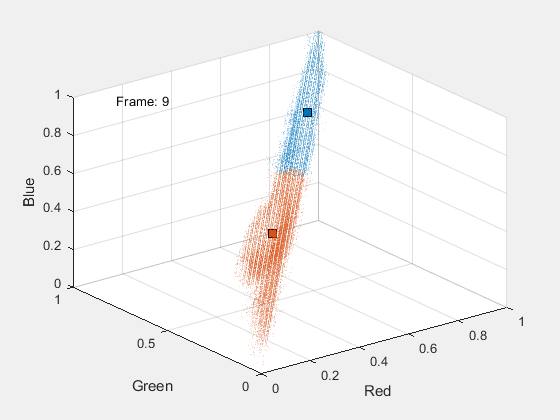
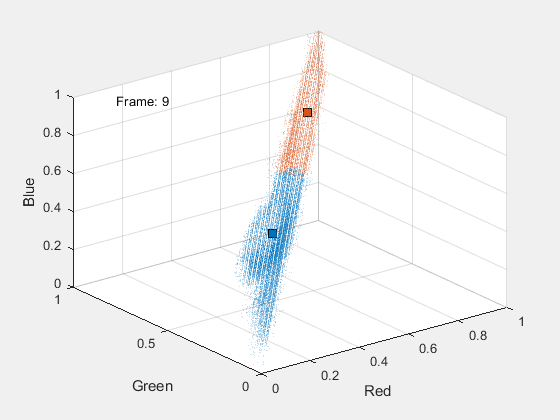
Done with experiment 5.

Changed region(s): [[0.425, 0.0619, 0.5768, 0.8357]]

diff --git a/Document/exp5document.tex b/Document/exp5document.tex
@@ -32,7 +32,7 @@
 \end{cases} \quad i=1,2,\dots,M \]
 识别分类时：将某个待分类模式$\mathbf{X}$分别带入$M$个类的$d(\mathbf{X})$中，若只有$d(\mathbf{X})>0$，其他$d(\mathbf{X})$均$<0$，则判为$\omega_1$类。
 
-对样本进行规范化处理，即$\omega_2$类样本全部诚意$(-1)$，则有
+对样本进行规范化处理，即$\omega_2$类样本全部乘以$(-1)$，则有
 \[ d(\mathbf{X})=\mathbf{W}^\mathsf{T}\mathbf{X}>0 \]
 感知器算法通过对已知类别的训练样本集的学习，寻找一个满足上式的权向量。
 
@@ -40,7 +40,7 @@
 \begin{enumerate}
 	\item 选择$N$个分属于$\omega_1$和$\omega_2$类的模式样本构成训练样本集
 	\[ \left\lbrace \mathbf{X}_1,\mathbf{X}_2,\dots,\mathbf{X}_N \right\rbrace \]
-	构成增广向量形式，并进行行规范化处理。任取权向量初始值$\mathbf{W}(1)$，开始迭代，迭代次数$k=1$。
+	构成增广向量形式，并进行规范化处理。任取权向量初始值$\mathbf{W}(1)$，开始迭代，迭代次数$k=1$。
 	\item 用全部训练样本进行一轮迭代，计算$\mathbf{W}^\mathsf{T}(k)\mathbf{X}_i$的值，并修正权向量。分两种情况更新权向量的值：
 	\begin{enumerate}
 		\item 若$\mathbf{W}^\mathsf{T}(k)\mathbf{X}_i\leq 0$，分类器对第$i$个模式做了错误的分类。权向量矫正为：$\mathbf{W}(k+1)=\mathbf{W}(k)+c\mathbf{X}_i$（$c$：正的矫正增量）。
@@ -55,5 +55,87 @@
 	\item 分析分类结果：只要有一个错误分类，回到$2$，直至对所有样本正确分类。
 \end{enumerate}
 \subsection{实验流程}
+\begin{figure}[H]
+	\centering
+	\begin{tikzpicture}[node distance=1.5cm]
+	\node (start)[startstop] {开始};
+	\node (inputimg)[io, below of=start] {输入待分类的图片};
+	\node (select_training_set)[process, below of=inputimg] {选取训练样本集};
+	\node (generate_negative_training_set)[process, below of=select_training_set] {生成负训练样本集};
+	\node (initialize_weight)[process, below of=generate_negative_training_set] {初始化权重矩阵};
+	\node (optimize_weight)[process, below of=initialize_weight] {迭代优化权重矩阵};
+	\node (classifing_image)[process, below of=optimize_weight] {对全图进行分类};
+	\node (ouput_classification)[io, below of=classifing_image] {输出分类结果};
+	\node (end)[startstop, below of=ouput_classification] {结束};
+	
+	\draw[arrow] (start) -- (inputimg);
+	\draw[arrow] (inputimg) -- (select_training_set);
+	\draw[arrow] (select_training_set) -- (generate_negative_training_set);
+	\draw[arrow] (generate_negative_training_set) -- (initialize_weight);
+	\draw[arrow] (initialize_weight) -- (optimize_weight);
+	\draw[arrow] (optimize_weight) -- (classifing_image);
+	\draw[arrow] (classifing_image) -- (ouput_classification);
+	\draw[arrow] (ouput_classification) -- (end);
+	\end{tikzpicture}
+	\caption{监督分类流程图}
+\end{figure}
 \subsection{实验程序}
+\lstinputlisting[caption={SVM监督分类程序}]{"../Executable Script/Exp 5/ReadViaductImage.m"}
 \subsection{实验结果和分析}
+对如图\ref{fig:viaduct_52}所示的图片进行分类
+\begin{figure}[H]
+	\centering
+	\includegraphics[width=0.7\linewidth]{figure/viaduct_52.jpg}
+	\caption{待分类原图像}
+	\label{fig:viaduct_52}
+\end{figure}
+首先选择用于训练权重矩阵的训练样本，训练样本的位置如图\ref{fig:viaduct_52_training_set}所示
+\begin{figure}[H]
+	\centering
+	\includegraphics[width=0.7\linewidth]{figure/viaduct_52_Training_Set_Marker.png}
+	\caption{标记训练样本的位置}
+	\label{fig:viaduct_52_training_set}
+\end{figure}
+图中，标记为蓝色区域的是道路样本，标记为红色区域的是植被样本，标记为黄色区域的是土地样本。选择标记好的样本生成正向样本集和负向样本集，使用这些样本对权重矩阵的12个参数进行训练。
+
+训练完成后，可以对全图进行分类，分类结果如图\ref{fig:viaduct_52_road_logic}、图\ref{fig:viaduct_52_grass_logic}和图\ref{fig:viaduct_52_ground_logic}所示。
+\begin{figure}[H]
+	\centering
+	\begin{minipage}{0.3\linewidth}
+		\includegraphics[width=\linewidth]{figure/viaduct_52_Road_Logic_P.png}
+		\caption{道路分类结果}
+		\label{fig:viaduct_52_road_logic}
+	\end{minipage}
+	\begin{minipage}{0.3\linewidth}
+		\includegraphics[width=\linewidth]{figure/viaduct_52_Grass_Logic_P.png}
+		\caption{植被分类结果}
+		\label{fig:viaduct_52_grass_logic}
+	\end{minipage}
+	\begin{minipage}{0.3\linewidth}
+		\includegraphics[width=\linewidth]{figure/viaduct_52_Ground_Logic_P.png}
+		\caption{土地分类结果}
+		\label{fig:viaduct_52_ground_logic}
+	\end{minipage}
+\end{figure}
+对原图片中的不同分类进行分离，可以得到如图\ref{fig:viaduct_52_road_separated}、图\ref{fig:viaduct_52_grass_separated}和图\ref{fig:viaduct_52_ground_separated}所示的结果
+\begin{figure}[H]
+	\centering
+	\begin{minipage}{0.3\linewidth}
+		\includegraphics[width=\linewidth]{figure/viaduct_52_Road_Separated_P.png}
+		\caption{道路分类结果}
+		\label{fig:viaduct_52_road_separated}
+	\end{minipage}
+	\begin{minipage}{0.3\linewidth}
+		\includegraphics[width=\linewidth]{figure/viaduct_52_Grass_Separated_P.png}
+		\caption{植被分类结果}
+		\label{fig:viaduct_52_grass_separated}
+	\end{minipage}
+	\begin{minipage}{0.3\linewidth}
+		\includegraphics[width=\linewidth]{figure/viaduct_52_Ground_Separated_P.png}
+		\caption{土地分类结果}
+		\label{fig:viaduct_52_ground_separated}
+	\end{minipage}
+\end{figure}
+可以看到，除了极小部分的错误分类，在整体上程序可以将不同类别的目标分离。
+
+在多次尝试之后，发现初始权向量的取值会对最后分类的结果造成一定的影响，有可能会导致目标分离不清，或分类错误加大。在对权重向量的取值随训练次数的变化图之后，可以发现，当权重向量取值达到稳定之后，分类的结果依然会出现错误分类的情况，由此看来，分类错误不可避免，但可以通过对权重矩阵的取值的选择和训练样本的选取改善最终分类的正确率。

diff --git a/Executable Script/Exp 5/ReadViaductImage.m b/Executable Script/Exp 5/ReadViaductImage.m
@@ -1,14 +1,84 @@
-img = imread('viaduct_52.jpg');
-trainingAreaCoordinate = [250, 300, 270, 320; 450, 150, 470, 170; 90, 160, 110, 180];
+img = double(imread('viaduct_52.jpg'))/255;
+alpha = 0.0002;
+maxTrainingTimes = 1e5;
+nameVector = {'Road', 'Grass', 'Ground'};
+trainingAreaCoordinate = [250, 300, 270, 320; 550, 40, 570, 60; 320, 220, 340, 240];
 % Road Area; Grass Area; Ground Area
 % Up Left Corner Row Index, Up Left Corner Col Index, 
 % Down Right Corner Row Index, Down Right Corner Col Index
+imgsize = size(img);
 trainingAreaCoordinateSize = size(trainingAreaCoordinate);
 classNum = trainingAreaCoordinateSize(1);
 pointsPerArea = zeros(1, classNum);
+weight = [rand(3, classNum); zeros(1, classNum)];
+weightPlot = zeros(4*classNum, maxTrainingTimes);
+wrongNumsPlot = zeros(classNum, maxTrainingTimes);
 trainingSet = cell(1, classNum);
+negativeTrainingSet = cell(1, classNum);
 for i = 1:classNum
     areaVector = trainingAreaCoordinate(i, :);
     pointsPerArea(i) = (areaVector(3) - areaVector(1) + 1)*(areaVector(4) - areaVector(2) + 1);
-    trainingSet{i} = reshape(img(areaVector(1):areaVector(3), areaVector(2):areaVector(4)), [], 3);
+    trainingSet{i} = [reshape(img(areaVector(1):areaVector(3), areaVector(2):areaVector(4), :), [], 3), ones(pointsPerArea(i), 1)];
+end
+for i = 1:classNum
+    negativeTrainingSetLength = sum(pointsPerArea) - pointsPerArea(i);
+    currentNegativeTrainingSet = zeros(negativeTrainingSetLength, 4);
+    startIndex = 1;
+    for j = 1:classNum
+        if j ~= i
+            currentNegativeTrainingSet(startIndex:startIndex + pointsPerArea(j) - 1, :) = trainingSet{j};
+            startIndex = startIndex + pointsPerArea(j);
+        end
+    end
+    negativeTrainingSet{i} = currentNegativeTrainingSet;
+end
+for i = 1:maxTrainingTimes
+    for j = 1:classNum
+        currentMark = trainingSet{j}*weight(:, j);
+        currentNegativeMark = negativeTrainingSet{j}*weight(:, j);
+        [wrongIndex, wrongStatus] = find(currentMark < 0);
+        [wrongNegativeIndex, wrongNegativeStatus] = find(currentNegativeMark > 0);
+        wrongNumsPlot(j, i) = length(wrongIndex);
+        weight(:, j) = weight(:, j) + (alpha*(sum(trainingSet{j}(wrongIndex, :)) - sum(negativeTrainingSet{j}(wrongNegativeIndex, :))))';
+    end
+    weightPlot(:, i) = reshape(weight, [], 1);
+end
+
+pointClassification = zeros(imgsize(1)*imgsize(2), 1);
+imgVector = [reshape(img, [], 3), ones(imgsize(1)*imgsize(2), 1)];
+imgMarks = imgVector*weight;
+[maxMark, maxIndex] = max(imgMarks, [], 2);
+markMatrix = reshape(imgMarks, imgsize(1), imgsize(2), 3);
+imgClassification = reshape(maxIndex, imgsize(1), imgsize(2));
+finalImageClassificationLogic = zeros(imgsize(1), imgsize(2), classNum);
+for i = 1:classNum
+    finalImageClassificationLogic(:, :, i) = (imgClassification == i & markMatrix(:, :, i) > 0);
+end
+%{
+for i = 1:classNum
+    subplot(1, classNum, i);
+    imshow(finalImageClassificationLogic(:, :, i));
+end
+figure;
+plot(1:maxTrainingTimes, weightPlot);
+xlabel('Training Times');
+ylabel('Weight');
+title('The Value of Weight Matrix');
+figure;
+plot(1:maxTrainingTimes, wrongNumsPlot);
+xlabel('Training Times');
+ylabel('Points');
+title('Wrong Classifing Points');
+%}
+figure;
+for i = 1:classNum
+    subplot(2, 2, i);
+    imshow(finalImageClassificationLogic(:, :, i));
+end
+subplot(2, 2, 4);
+plot(1:maxTrainingTimes, weightPlot);
+
+for i = 1:classNum
+    imwrite(finalImageClassificationLogic(:, :, i), sprintf('../../Document/figure/viaduct_52_%s_Logic.png', nameVector{i}));
+    imwrite(finalImageClassificationLogic(:, :, i).*img, sprintf('../../Document/figure/viaduct_52_%s_Separated.png', nameVector{i}));
 end

diff --git a/Executable Script/Exp 5/DrawRectangleOnImage.m b/Executable Script/Exp 5/DrawRectangleOnImage.m
@@ -1,0 +1,23 @@
+img = imread('viaduct_52.jpg');
+rectangleCoordinate = [250, 300, 270, 320; 550, 40, 570, 60; 320, 220, 340, 240];
+alpha = 0.15;
+colorset = {[0 0.4470 0.7410], [0.8500 0.3250 0.0980],...
+        [0.9290 0.6940 0.1250], [0.4940 0.1840 0.5560],...
+        [0.4660 0.6740 0.1880], [0.3010 0.7450 0.9330],...
+        [0.6350 0.0780 0.1840]};
+[rectangleNum, a] = size(rectangleCoordinate);
+for i = 1:rectangleNum
+    rowPts = rectangleCoordinate(i, 3) - rectangleCoordinate(i, 1) + 1;
+    colPts = rectangleCoordinate(i, 4) - rectangleCoordinate(i, 2) + 1;
+    for j = 0:1
+        img(rectangleCoordinate(i, 1) - j:rectangleCoordinate(i, 3) + j, rectangleCoordinate(i, 2) - j, :) = repmat(reshape(colorset{i}*255, 1, [], 3), rowPts + j*2, 1);
+        img(rectangleCoordinate(i, 1) - j:rectangleCoordinate(i, 3) + j, rectangleCoordinate(i, 4) + j, :) = repmat(reshape(colorset{i}*255, 1, [], 3), rowPts + j*2, 1);
+        img(rectangleCoordinate(i, 1) - j, rectangleCoordinate(i, 2) - j:rectangleCoordinate(i, 4) + j, :) = repmat(reshape(colorset{i}*255, 1, [], 3), colPts + j*2, 1);
+        img(rectangleCoordinate(i, 3) + j, rectangleCoordinate(i, 2) - j:rectangleCoordinate(i, 4) + j, :) = repmat(reshape(colorset{i}*255, 1, [], 3), colPts + j*2, 1);
+    end
+    img(rectangleCoordinate(i, 1) + 1:rectangleCoordinate(i, 3) - 1, rectangleCoordinate(i, 2) + 1:rectangleCoordinate(i, 4) - 1, :) = ...
+        double(img(rectangleCoordinate(i, 1) + 1:rectangleCoordinate(i, 3) - 1, rectangleCoordinate(i, 2) + 1:rectangleCoordinate(i, 4) - 1, :))*(1 - alpha) + ...
+        repmat(reshape(colorset{i}, 1, 1, 3), rowPts - 2, colPts - 2)*alpha*255;
+end
+imshow(img);
+imwrite(img, '../../Document/figure/viaduct_52_Training_Set_Marker.png');

diff --git a/Document/document2.tex b/Document/document2.tex
@@ -7,7 +7,7 @@
 \usepackage{fontspec}
 \usepackage{tikz}
 \setmonofont{Consolas}
-\setCJKmainfont{Noto Sans S Chinese Regular}
+\setCJKmainfont{Noto Sans SC Regular}
 \usetikzlibrary{shapes.geometric, arrows}
 \tikzstyle{startstop} = [rectangle, rounded corners, minimum width=3cm, minimum height=1cm,text centered, draw=black, fill=red!30]
 \tikzstyle{io} = [trapezium, trapezium left angle=70, trapezium right angle=110, minimum width=3cm, minimum height=1cm, text centered, draw=black, fill=blue!30]

diff --git a/Function Library/ExportLatexAnimate.m b/Function Library/ExportLatexAnimate.m
@@ -1,6 +1,10 @@
-function ExportLatexAnimate(frameArrays, path)
+function ExportLatexAnimate(frameArrays, folderPath)
+    if exist(folderPath, 'dir')
+        rmdir(folderPath, 's');
+    end
+    mkdir(folderPath);
     framesize = size(frameArrays);
     for i = 1:framesize(2)
-        imwrite(frameArrays{i}, sprintf('%s-%04d.png', path, i));
+        imwrite(frameArrays{i}, sprintf('%s/frame-%04d.png', folderPath, i));
     end
 end

diff --git a/Executable Script/Exp 4/ReadAirportImages.m b/Executable Script/Exp 4/ReadAirportImages.m
@@ -51,4 +51,4 @@ for i = 1:kNum
 end
 
 ExportGifAnimate(gifFrame, '../../Document/figure/airport_44_Clustering_Animation.gif');
-ExportLatexAnimate(gifFrame, '../../Document/figure/airport_44_Clustering_Latex_Animate/frame');
+ExportLatexAnimate(gifFrame, '../../Document/figure/airport_44_Clustering_Latex_Animate');
